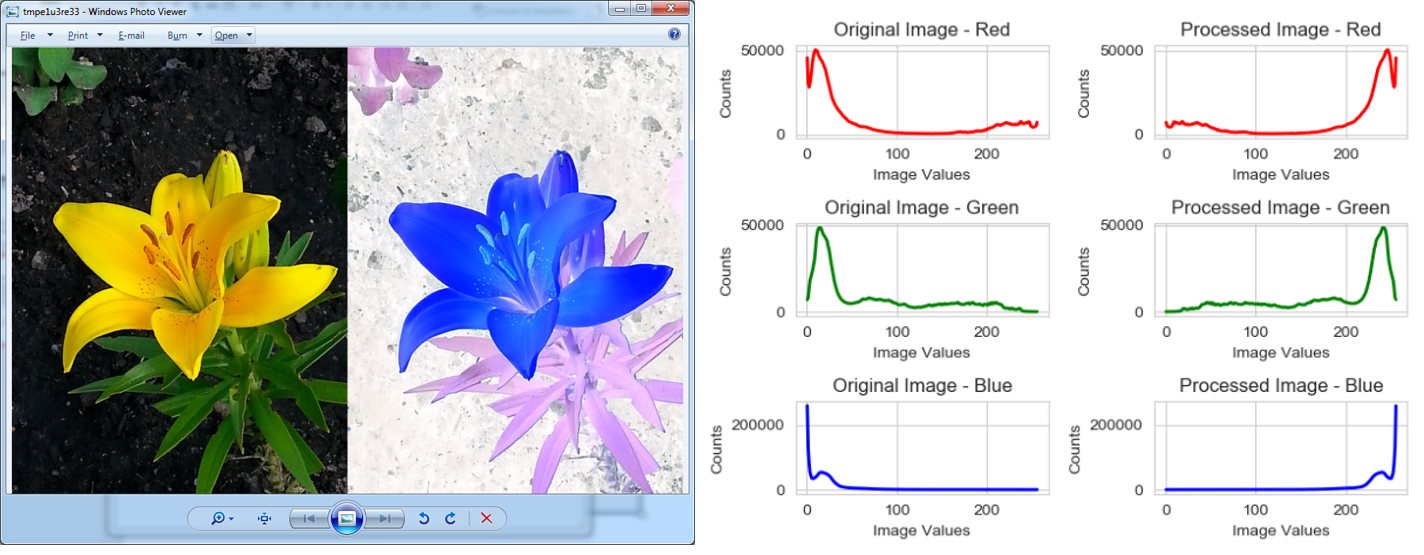
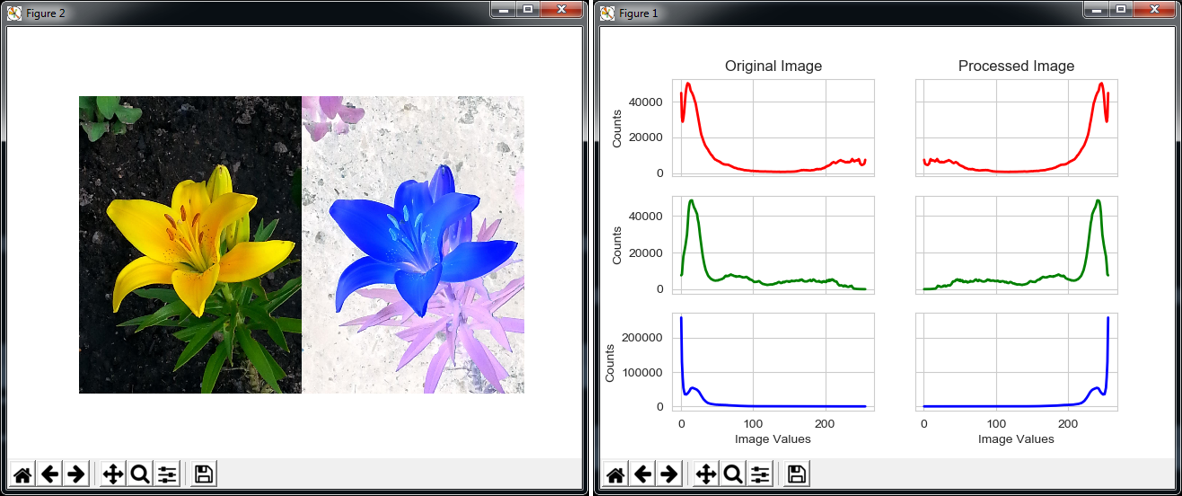
Updated the README to reflect the image viewer changes

diff --git a/README.md b/README.md
@@ -74,8 +74,9 @@ luminescence, blue difference and
 
 ![GUI after processing](ProjectIms/gui_ims.png)
 
-The image will launch in your system's image viewer. You may be prompted to 
-select the viewer before seing the image appear. If the `Both` option is 
+The image will launch in a Matplotlib window. This will allow the user to 
+navigate the images better, giving options such as zooming in or saving the 
+images. If the `Both` radio button is
 selected the original and processed images will appear side-by-side, on the 
 left and right respectively. The images histograms will appear as a separate 
 [Matplotlib](https://matplotlib.org/) plot. In the example below the image 
